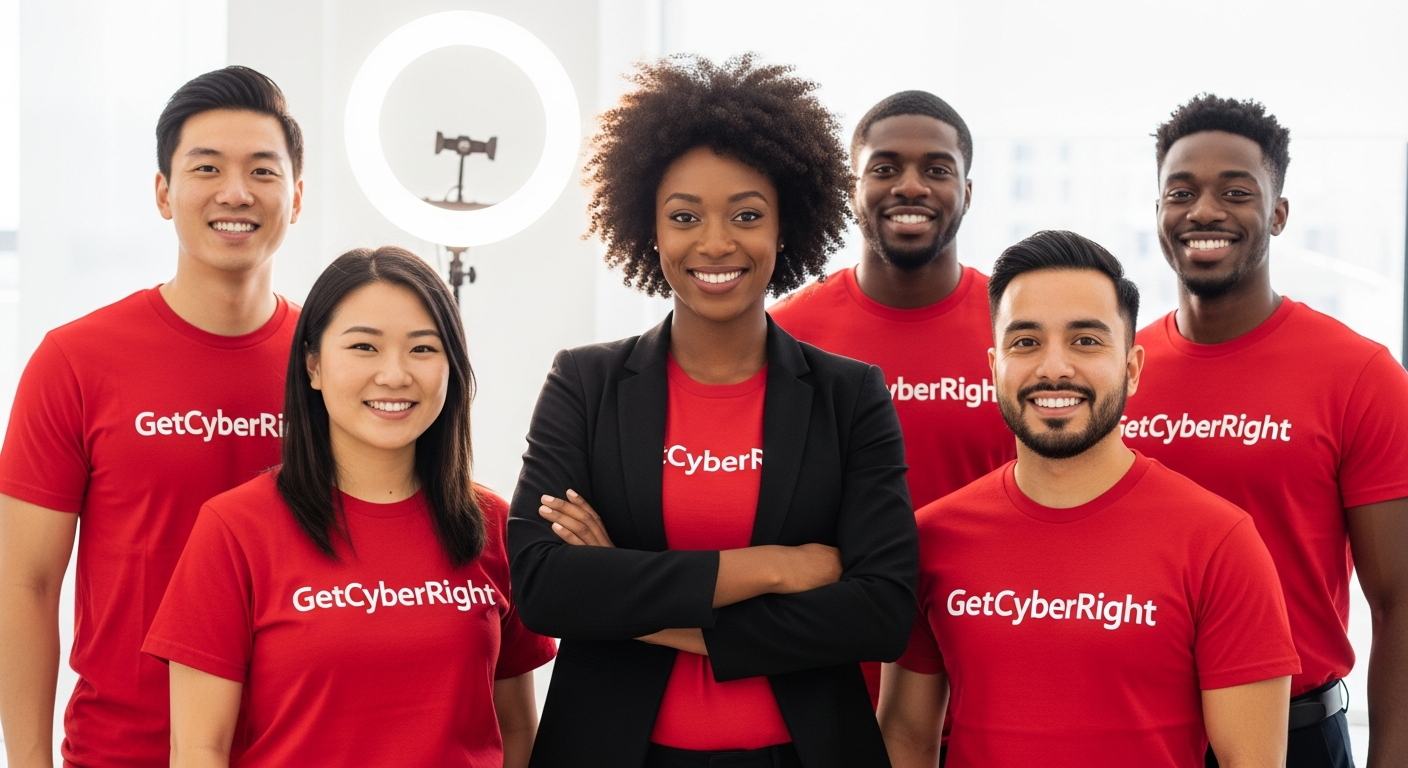
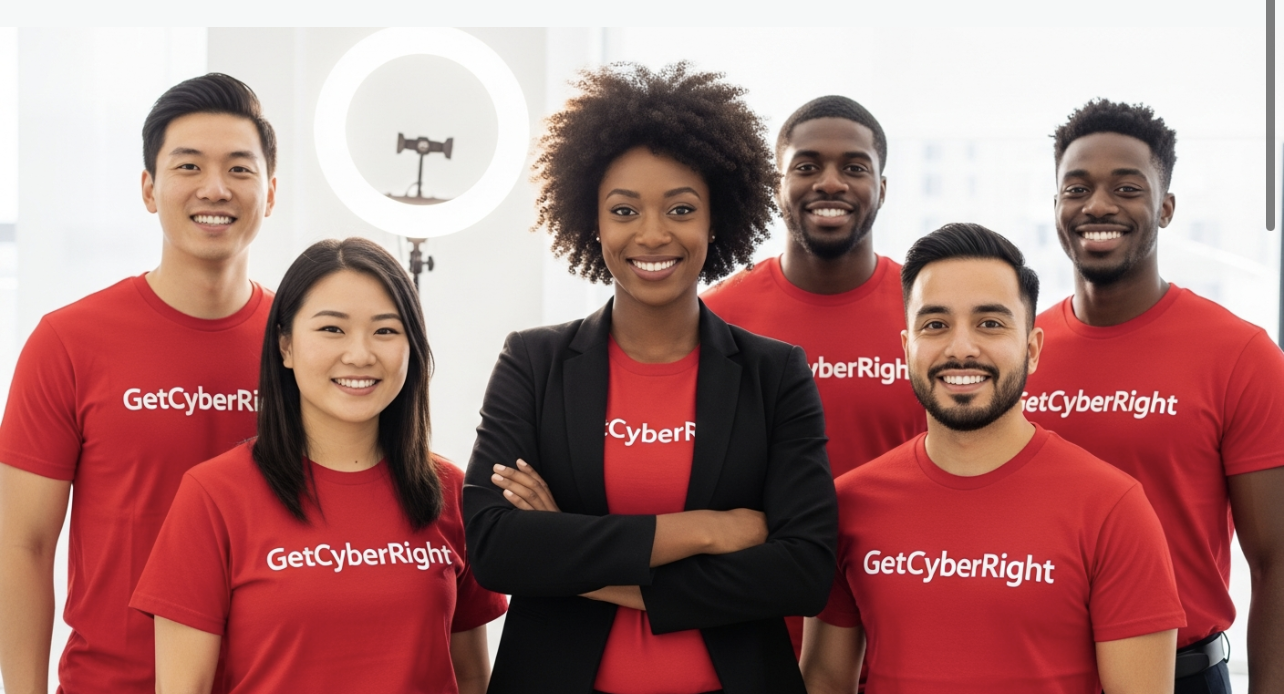
Update About page images with new team and founder photos
Update the `about-banner.png` and `professional-black-woman.png` assets to display the new team photo and the founder's photo on the About page, respectively. Update associated alt text.

Replit-Commit-Author: Agent
Replit-Commit-Session-Id: 348ba834-d55f-427c-aaa1-a0c3052404b6
Replit-Commit-Checkpoint-Type: full_checkpoint
Replit-Commit-Event-Id: 45c0bda1-d54a-47d4-b167-634d9f941259
Replit-Commit-Screenshot-Url: https://storage.googleapis.com/screenshot-production-us-central1/924e6b5f-16e9-49c9-929b-489d2a4ca32f/348ba834-d55f-427c-aaa1-a0c3052404b6/QAPIWGy
Replit-Helium-Checkpoint-Created: true

diff --git a/client/src/pages/about.tsx b/client/src/pages/about.tsx
@@ -51,7 +51,7 @@ export default function About() {
           title="Our Story: Why We Built GetCyberRight"
           subtitle="Cybersecurity tools built by a family, for families. Every parent, every grandparent, every child deserves protection they can understand and trust."
           imageSrc={bannerImage}
-          imageAlt="Diverse GetCyberRight team with African woman leader in the center, all wearing branded red shirts in a modern office"
+          imageAlt="Diverse GetCyberRight team wearing branded red shirts with the founder Jude Kweku in the center, in a modern office with ring light"
           imagePosition="left"
           colorVariant="slate"
         />
@@ -143,7 +143,7 @@ export default function About() {
                 <div className="my-8 rounded-lg overflow-hidden shadow-lg">
                   <img 
                     src={seniorsLearningImage} 
-                    alt="Senior learning technology with family support"
+                    alt="Jude Kweku, founder of GetCyberRight, standing confidently outdoors"
                     className="w-full h-auto object-cover"
                     loading="lazy"
                     data-testid="img-about-seniors-learning"
